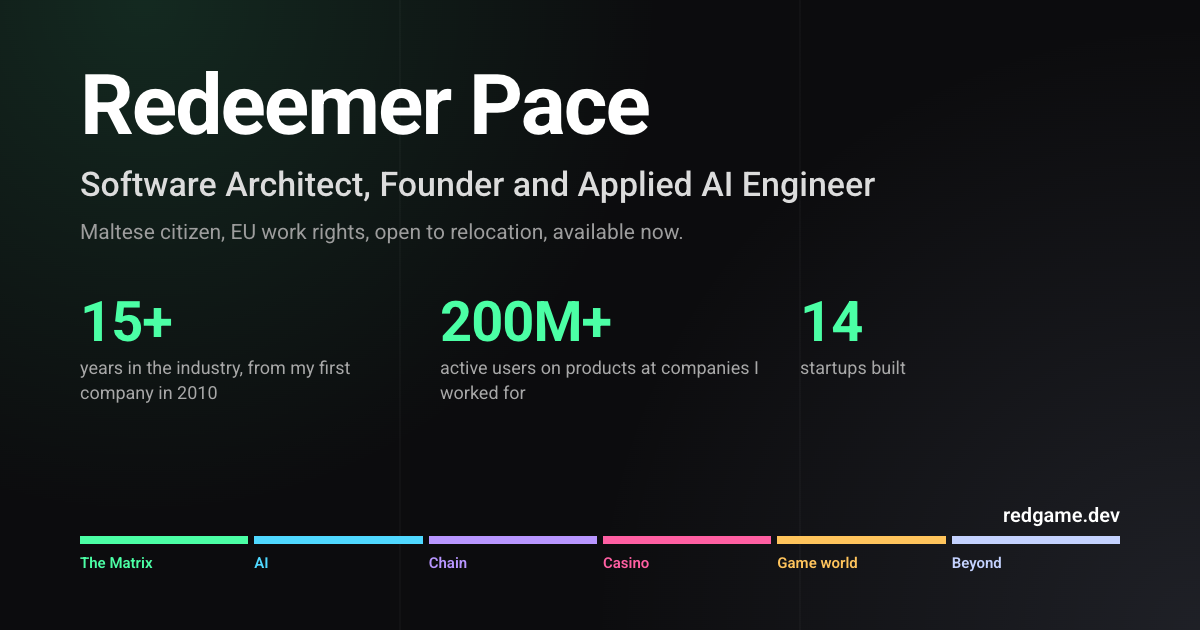
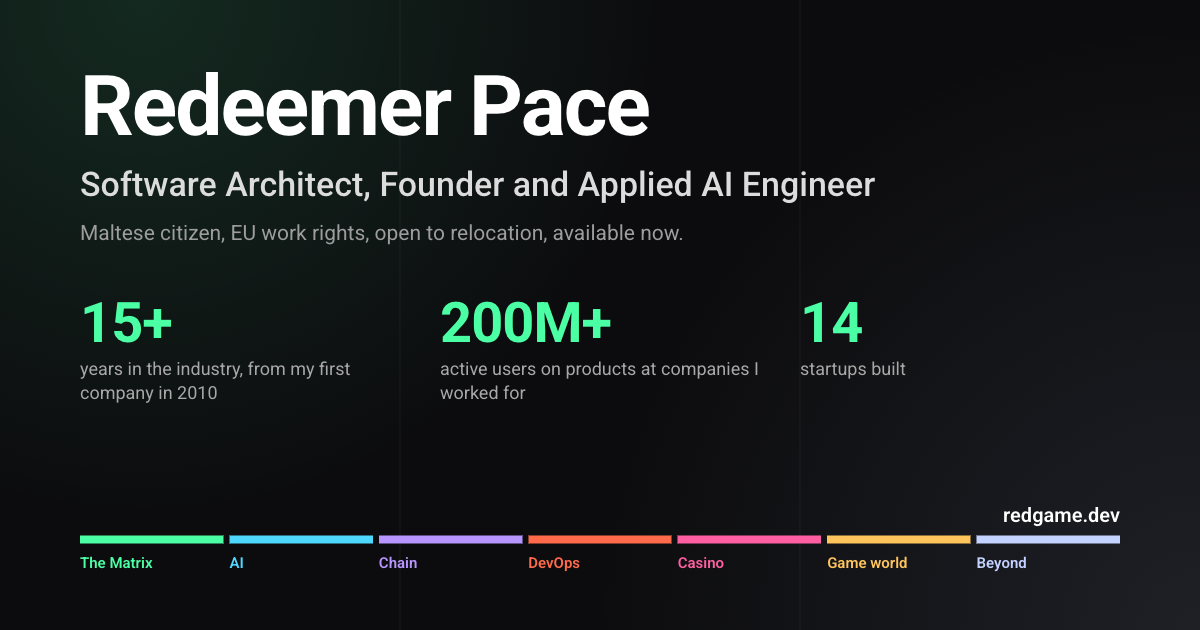
perf: a deploy restyles nothing new and re-renders only the console and the board; the share card with seven zones

diff --git a/src/components/DevOps/Console.tsx b/src/components/DevOps/Console.tsx
@@ -2,7 +2,7 @@ import { FC, useEffect, useState } from "react";
 
 import tw, { css, styled } from "twin.macro";
 
-import { useGameStateHook } from "@/components/Game/hooks/useGameStateHook";
+import { useDeploysStateHook } from "@/components/Game/hooks/useDeploysStateHook";
 import { ZONE_ACCENTS } from "@/config/zones";
 import { useReducedMotion } from "@/hooks/useReducedMotion";
 import { recordOf } from "@/packages/core/domain";
@@ -49,16 +49,18 @@ const Layout = styled.div(() => [
 
 const Stacks = tw.ul`list-none m-0 p-0 flex flex-col gap-[8px]`;
 
-const StackRow = styled.li(({ isLive }: { isLive: boolean }) => [
+// Live is a data attribute on one rule written with the page, not a prop, which would add a rule as the first stack
+// goes live and restyle everything on the screen.
+const StackRow = styled.li(() => [
   tw`grid items-center gap-x-[10px] gap-y-[2px] p-[10px] bg-[#0d0d0d] border-[1px] border-solid border-[#1E1E1E]`,
   css`
     grid-template-columns: minmax(0, 1fr) auto;
     border-left: 3px solid var(--stack);
     transition: border-color 0.3s ease;
-  `,
-  isLive && css`
-    border-color: var(--stack);
-    border-left-width: 3px;
+
+    &[data-live] {
+      border-color: var(--stack);
+    }
   `,
 ]);
 
@@ -117,18 +119,22 @@ const Target = styled.span(() => [
   `,
 ]);
 
-const Log = tw.ol`list-none m-0 p-[12px] flex flex-col gap-[4px] min-h-[132px] text-xs text-[#bbb]`;
-
-// A long command wraps rather than scrolling the log sideways on a phone.
-const Line = styled.li(() => [
-  tw`whitespace-pre-wrap`,
+// The lines are styled from the log, which is written with the page, so the first line printed adds no rule of its own
+// (which would restyle everything on the screen). A long command wraps rather than scrolling the log sideways on a phone.
+const Log = styled.ol(() => [
+  tw`list-none m-0 p-[12px] flex flex-col gap-[4px] min-h-[132px] text-xs text-[#bbb]`,
   css`
-    font-family: ${MONO};
-    overflow-wrap: anywhere;
+    & > li {
+      white-space: pre-wrap;
+      overflow-wrap: anywhere;
+      font-family: ${MONO};
+    }
+
+    & > li > span {
+      color: var(--accent);
+    }
   `,
 ]);
-
-const Prompt = tw.span`text-[var(--accent)]`;
 
 const Status = tw.p`m-0 px-[12px] pb-[12px] text-sm text-white`;
 
@@ -136,7 +142,7 @@ const Status = tw.p`m-0 px-[12px] pb-[12px] text-sm text-white`;
 // another with no downtime, its commands printed a line at a time as its container travels the pipe, and every
 // one that goes live counted as a deploy shipped for the finale's board. Under reduced motion each lands at once.
 export const Console: FC<ConsoleProps> = ({ content, hosts, plan }: ConsoleProps) => {
-  const { shipDeploy } = useGameStateHook();
+  const { shipDeploy } = useDeploysStateHook();
   const isReduced = useReducedMotion();
   const [placed, setPlaced] = useState<Readonly<Record<UniverseStack, HostId>>>(() => placeAll(plan));
   const [live, setLive] = useState<ReadonlySet<UniverseStack>>(() => new Set());
@@ -223,7 +229,7 @@ export const Console: FC<ConsoleProps> = ({ content, hosts, plan }: ConsoleProps
       <div>
         <Stacks>
           {UNIVERSE_STACKS.map((stack) => (
-            <StackRow key={stack} isLive={live.has(stack)} style={{ "--stack": ZONE_ACCENTS[stack] }}>
+            <StackRow key={stack} data-live={live.has(stack) ? "" : undefined} style={{ "--stack": ZONE_ACCENTS[stack] }}>
               <StackName>{content.stacks[stack]}</StackName>
               <StackHost>{live.has(stack) ? fill(content.liveOn, { host: hostName(hosts, placed[stack]) }) : hostName(hosts, placed[stack])}</StackHost>
               <StackActions>
@@ -259,10 +265,10 @@ export const Console: FC<ConsoleProps> = ({ content, hosts, plan }: ConsoleProps
         </Ends>
         <Log aria-label={content.label}>
           {shown.map((line, index) => (
-            <Line key={`${job?.stack ?? ""}-${index}`}>
-              <Prompt>{`${content.prompt}$ `}</Prompt>
+            <li key={`${job?.stack ?? ""}-${index}`}>
+              <span>{`${content.prompt}$ `}</span>
               {line}
-            </Line>
+            </li>
           ))}
         </Log>
         <Status role="status">

diff --git a/src/components/Game/context/GameContext.tsx b/src/components/Game/context/GameContext.tsx
@@ -1,5 +1,6 @@
 import { createContext, ReactNode, useCallback, useEffect, useMemo, useRef, useState } from "react";
 
+import { DeploysProvider } from "@/components/Game/context/DeploysContext";
 import { GAME_STORAGE_KEY, isStoredGame } from "@/components/Game/storage";
 import { readStored, writeStored } from "@/packages/browser/storage";
 
@@ -11,15 +12,12 @@ export interface GameState {
   defeatedBosses: number;
   zonesVisited: number;
   duelsWon: number;
-  // Deploys shipped from the DevOps universe's console this visit.
-  deploysShipped: number;
   selectCharacter: (characterClass: string) => void;
   recordScore: (score: number) => void;
   recordVoyage: (score: number) => void;
   defeatBoss: (boss: string) => void;
   visitZone: (zone: string) => void;
   recordDuels: (won: number) => void;
-  shipDeploy: () => void;
 }
 
 interface GameProviderProps {
@@ -35,7 +33,6 @@ export const GameProvider = ({ children }: GameProviderProps) => {
   const [bosses, setBosses] = useState<ReadonlySet<string>>(() => new Set());
   const [zones, setZones] = useState<ReadonlySet<string>>(() => new Set());
   const [duelsWon, setDuelsWon] = useState(0);
-  const [deploysShipped, setDeploysShipped] = useState(0);
   // The first pass holds the defaults, not a choice, so it is never written over what is stored.
   const isFirstPassRef = useRef(true);
 
@@ -74,8 +71,6 @@ export const GameProvider = ({ children }: GameProviderProps) => {
 
   const recordDuels = useCallback((won: number) => setDuelsWon((current) => Math.max(current, won)), []);
 
-  const shipDeploy = useCallback(() => setDeploysShipped((current) => current + 1), []);
-
   const value = useMemo(
     () => ({
       characterClass,
@@ -84,17 +79,19 @@ export const GameProvider = ({ children }: GameProviderProps) => {
       defeatedBosses: bosses.size,
       zonesVisited: zones.size,
       duelsWon,
-      deploysShipped,
       selectCharacter: setCharacterClass,
       recordScore,
       recordVoyage,
       defeatBoss,
       visitZone,
       recordDuels,
-      shipDeploy,
     }),
-    [characterClass, bestScore, voyageBest, bosses, zones, duelsWon, deploysShipped, recordScore, recordVoyage, defeatBoss, visitZone, recordDuels, shipDeploy]
+    [characterClass, bestScore, voyageBest, bosses, zones, duelsWon, recordScore, recordVoyage, defeatBoss, visitZone, recordDuels]
   );
 
-  return <GameContext.Provider value={value}>{children}</GameContext.Provider>;
+  return (
+    <GameContext.Provider value={value}>
+      <DeploysProvider>{children}</DeploysProvider>
+    </GameContext.Provider>
+  );
 };

diff --git a/src/components/Finale/index.tsx b/src/components/Finale/index.tsx
@@ -13,6 +13,7 @@ import { DecodedText } from "@/components/DecodedText";
 import { useInvite } from "@/components/Finale/hooks/useInvite";
 import { useLaunch } from "@/components/Finale/hooks/useLaunch";
 import { LazyVoyageDialog } from "@/components/Finale/Voyage/LazyVoyageDialog";
+import { useDeploysStateHook } from "@/components/Game/hooks/useDeploysStateHook";
 import { useGameStateHook } from "@/components/Game/hooks/useGameStateHook";
 import { Panel } from "@/components/Panel";
 import { Section } from "@/components/Section";
@@ -236,7 +237,8 @@ export const Finale: FC<FinaleProps> = ({
   const isBoardInView = useInView(boardRef, { threshold: 0.6, once: true });
   const { snapshot, site, isReady, press, selfDestruct } = useLaunch(boardRef, canvasRef, isBoardInView, content.launch.sites, content.launch.readout);
   const isReached = useInView(sectionRef, { threshold: 0.2 });
-  const { zonesVisited, defeatedBosses, duelsWon, deploysShipped, characterClass, bestScore, voyageBest, recordVoyage } = useGameStateHook();
+  const { zonesVisited, defeatedBosses, duelsWon, characterClass, bestScore, voyageBest, recordVoyage } = useGameStateHook();
+  const { deploysShipped } = useDeploysStateHook();
   const [isVoyaging, setIsVoyaging] = useState(false);
   const [runMs, setRunMs] = useState<number | null>(null);
   const openVoyage = useCallback(() => setIsVoyaging(true), []);

diff --git a/src/components/Game/context/DeploysContext.tsx b/src/components/Game/context/DeploysContext.tsx
@@ -1,0 +1,23 @@
+import { createContext, ReactNode, useCallback, useMemo, useState } from "react";
+
+export interface DeploysState {
+  // Deploys shipped from the DevOps universe's console this visit. Not remembered: every visit is a new run.
+  deploysShipped: number;
+  shipDeploy: () => void;
+}
+
+interface DeploysProviderProps {
+  children: ReactNode;
+}
+
+export const DeploysContext = createContext<DeploysState | null>(null);
+
+// Apart from the rest of the run, so a deploy re-renders only the console and the finale's board, not every reader of
+// the game state across the page.
+export const DeploysProvider = ({ children }: DeploysProviderProps) => {
+  const [deploysShipped, setDeploysShipped] = useState(0);
+  const shipDeploy = useCallback(() => setDeploysShipped((current) => current + 1), []);
+  const value = useMemo(() => ({ deploysShipped, shipDeploy }), [deploysShipped, shipDeploy]);
+
+  return <DeploysContext.Provider value={value}>{children}</DeploysContext.Provider>;
+};

diff --git a/__tests__/src/components/devopsConsole.test.tsx b/__tests__/src/components/devopsConsole.test.tsx
@@ -3,7 +3,7 @@ import { act, fireEvent, render, screen } from "@testing-library/react";
 import { AppLoaderProvider } from "@/components/AppLoader/context/AppLoaderContext";
 import { DevOps } from "@/components/DevOps";
 import { GameProvider } from "@/components/Game/context/GameContext";
-import { useGameStateHook } from "@/components/Game/hooks/useGameStateHook";
+import { useDeploysStateHook } from "@/components/Game/hooks/useDeploysStateHook";
 import { LensProvider } from "@/components/Lens/context/LensContext";
 import { PreferencesProvider } from "@/components/Preferences/context/PreferencesContext";
 import { portfolioData } from "@/data/resume";
@@ -11,7 +11,7 @@ import { portfolioData } from "@/data/resume";
 const { devops } = portfolioData;
 
 const Deploys = () => {
-  const { deploysShipped } = useGameStateHook();
+  const { deploysShipped } = useDeploysStateHook();
 
   return <span data-testid="deploys">{deploysShipped}</span>;
 };

diff --git a/src/components/Game/hooks/useDeploysStateHook.ts b/src/components/Game/hooks/useDeploysStateHook.ts
@@ -1,0 +1,13 @@
+import { useContext } from "react";
+
+import { DeploysContext, DeploysState } from "@/components/Game/context/DeploysContext";
+
+export const useDeploysStateHook = (): DeploysState => {
+  const context = useContext(DeploysContext);
+
+  if (!context) {
+    throw new Error("useDeploysStateHook must be used inside a GameProvider");
+  }
+
+  return context;
+};
